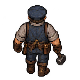
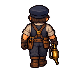
Redraw the playable cast and add a native sprite review workshop

Changed region(s): [[0.15, 0.05, 0.825, 0.975]]

diff --git a/src/dev/sprite-workshop.ts b/src/dev/sprite-workshop.ts
@@ -1,0 +1,81 @@
+import { CHARACTERS } from '../content/characters';
+import { ACTOR_DIRECTIONS, ACTOR_FEET, ACTOR_SIZE, actorAsset, type ActorDirection } from '../content/actors';
+import { COMPANION_IDS, type CompanionId } from '../rules/party';
+import { art } from '../game/ui';
+
+const backgrounds = { Slate: ['#182b32', '#234047'], Paper: ['#dac9a0', '#f4e5be'], Night: ['#080f19', '#101d28'] } as const;
+type Background = keyof typeof backgrounds;
+export class SpriteWorkshop {
+  private hero: CompanionId = 'nell';
+  private direction: ActorDirection = 'front';
+  private background: Background = 'Slate';
+  private zoom = 2;
+  private guides = true;
+  private images = new Map<string, HTMLImageElement>();
+  private host?: HTMLElement;
+
+  show(host: HTMLElement) {
+    this.host = host;
+    this.render();
+  }
+  hide() { this.host = undefined; }
+  private image(name: string) {
+    let image = this.images.get(name);
+    if (!image) {
+      image = new Image(); this.images.set(name, image);
+      image.onload = () => { if (this.host) this.paint(); };
+      image.src = art(name);
+    }
+    return image;
+  }
+  private render() {
+    const host = this.host!;
+    host.innerHTML = `<section class="sprite-review" aria-label="Sprite review"><header><h2>Sprites</h2><p>Five travelers, one art direction. Portraits and lineup are native size.</p></header>
+      <div class="sprite-cast" role="group" aria-label="Playable characters">${COMPANION_IDS.map(hero=>`<button data-sprite-hero="${hero}" aria-label="Inspect ${CHARACTERS[hero].name}" aria-pressed="${hero===this.hero}"><img src="${art(CHARACTERS[hero].portrait)}" alt="${CHARACTERS[hero].name} portrait" width="128" height="128"/><span>${CHARACTERS[hero].name}</span></button>`).join('')}</div>
+      <div class="sprite-settings"><div role="group" aria-label="Facing">${ACTOR_DIRECTIONS.map(direction=>`<button data-facing="${direction}" aria-pressed="${direction===this.direction}">${direction[0].toUpperCase()+direction.slice(1)}</button>`).join('')}</div>
+      <div role="group" aria-label="Preview background">${Object.keys(backgrounds).map(background=>`<button data-background="${background}" aria-pressed="${background===this.background}">${background}</button>`).join('')}</div>
+      <button id="sprite-guides" aria-pressed="${this.guides}">Ground guides</button></div>
+      <section class="sprite-lineup"><h3>Party lineup / 1x</h3><div class="sprite-scroll"><canvas width="480" height="112" aria-label="All five travelers at native size"></canvas></div></section>
+      <div class="sprite-inspector"><section><h3>${CHARACTERS[this.hero].name} / ${this.direction}</h3><div class="sprite-zoom" role="group" aria-label="Sprite zoom">${[1,2,3].map(zoom=>`<button data-zoom="${zoom}" aria-pressed="${zoom===this.zoom}">${zoom}x</button>`).join('')}</div><canvas class="sprite-detail" width="240" height="240" aria-label="${CHARACTERS[this.hero].name} ${this.direction} at ${this.zoom}x"></canvas></section>
+      <section class="sprite-reference"><h3>Four directions / 1x</h3><div class="sprite-scroll"><canvas width="352" height="112" aria-label="${CHARACTERS[this.hero].name} in all four directions"></canvas></div><p>Actor: 80 x 80<br/>Portrait: 128 x 128<br/>Feet: row 68 / center: column 40</p><p class="sprite-file">${actorAsset(this.hero,this.direction)}.png<br/>${CHARACTERS[this.hero].portrait}.png</p></section></div></section>`;
+    const bind = (selector: string, action: (button: HTMLButtonElement) => void) => {
+      for (const button of host.querySelectorAll<HTMLButtonElement>(selector)) button.onclick = () => {
+        const scroll = host.closest('.inventory-panel')!.scrollTop;
+        action(button); this.render(); host.closest('.inventory-panel')!.scrollTop = scroll;
+      };
+    };
+    bind('[data-sprite-hero]', button=>{ this.hero=button.dataset.spriteHero as CompanionId; });
+    bind('[data-facing]', button=>{ this.direction=button.dataset.facing as ActorDirection; });
+    bind('[data-background]', button=>{ this.background=button.dataset.background as Background; });
+    bind('[data-zoom]', button=>{ this.zoom=Number(button.dataset.zoom); });
+    bind('#sprite-guides', ()=>{ this.guides=!this.guides; });
+    this.paint();
+  }
+  private backdrop(ctx: CanvasRenderingContext2D) {
+    const colors = backgrounds[this.background];
+    for (let y=0;y<ctx.canvas.height;y+=8) for (let x=0;x<ctx.canvas.width;x+=8) {
+      ctx.fillStyle=colors[(x/8+y/8)%2]; ctx.fillRect(x,y,8,8);
+    }
+    ctx.imageSmoothingEnabled=false;
+  }
+  private actor(ctx: CanvasRenderingContext2D, hero: CompanionId, direction: ActorDirection, x: number, y: number, zoom=1) {
+    const image=this.image(actorAsset(hero,direction)), size=ACTOR_SIZE*zoom;
+    if (this.guides) {
+      ctx.strokeStyle='#87a3a2';ctx.lineWidth=1;ctx.strokeRect(x+.5,y+.5,size-1,size-1);
+      ctx.fillStyle='#f4c77a';ctx.fillRect(x,y+ACTOR_FEET*zoom,size,1);
+      ctx.fillStyle='#557179';ctx.fillRect(x+40*zoom,y,1,size);
+    }
+    if(image.complete&&image.naturalWidth)ctx.drawImage(image,x,y,size,size);
+  }
+  private paint() {
+    if(!this.host)return;
+    const [lineup, detail, directions]=this.host.querySelectorAll('canvas');
+    const a=lineup.getContext('2d')!,b=detail.getContext('2d')!,c=directions.getContext('2d')!;
+    for(const ctx of [a,b,c])this.backdrop(ctx);
+    COMPANION_IDS.forEach((hero,index)=>this.actor(a,hero,this.direction,8+96*index,16));
+    const offset=(240-ACTOR_SIZE*this.zoom)/2;this.actor(b,this.hero,this.direction,offset,offset,this.zoom);
+    ACTOR_DIRECTIONS.forEach((direction,index)=>this.actor(c,this.hero,direction,8+88*index,16));
+    // A DOM mutation asks the shared native framebuffer to repaint these canvases.
+    this.host.dataset.paint=String(Number(this.host.dataset.paint??0)+1);
+  }
+}

diff --git a/src/game/adventure.ts b/src/game/adventure.ts
@@ -1,4 +1,5 @@
 import Phaser from 'phaser';
+import { facingAsset, PLAYABLE_ACTORS } from '../content/actors';
 import { CHAPTER_TWO_AVAILABLE,CHAPTER_THREE_AVAILABLE,CHAPTER_FOUR_AVAILABLE } from '../content/chapters';
 import { CHARACTERS, NPC_SPRITES } from '../content/characters';
 import type { StoryHost } from '../content/chapter-one/interactions';
@@ -7,7 +8,7 @@ import type { Dialogue } from '../content/dialogue';
 import { HEIGHT, MAPS, TILE, WIDTH, mapSize, visibleObjects, walkable, worldPath, type MapObject } from '../content/maps';
 import { ABILITIES, ENCOUNTERS, active, awardVictory, cast, createBattle, damage, defend, enemyTurn, legalAim, move, movement, pushDestination, shape, targets, tauntTarget, wait, type AbilityId, type Battle } from '../rules/combat';
 import { HEX_SIZE, cells, equal, fromPixel, inside, key, neighbors, offset, toPixel, type Hex } from '../rules/hex';
-import { beginChapterTwo, beginChapterThree, beginChapterFour, partyLeader, decodeSave, level, maxHp, newGame, remember, restoreParty, type GameState, type MapId } from '../rules/state';
+import { beginChapterTwo, beginChapterThree, beginChapterFour, partyLeader, decodeSave, level, maxHp, newGame, remember, restoreParty, type GameState, type HeroId, type MapId } from '../rules/state';
 import { Audio } from './audio';
 import { Cutscene } from './cutscene';
 import { checkpoint, exportSave, listSaves, save } from './saves';
@@ -20,7 +21,7 @@ import { worldView, narrowScreen } from './resolution';
 
 type Action = AbilityId | 'move';
 type Plan = { action: Action; hex: Hex };
-const textures = ['nell','nell-left','nell-right','nell-back','orrin','orrin-left','orrin-right','orrin-back','master','clerk','hound','crow','inspector','guardian','rock',...NPC_SPRITES];
+const textures = [...PLAYABLE_ACTORS,'master','clerk','hound','crow','inspector','guardian','rock',...NPC_SPRITES];
 const roles: Record<string, string> = { nell: 'Porter', orrin: 'Mechanic', kit: 'Courier', petra:'Knight', celia: 'Physician', hound: 'Melee · retaliates', crow: 'Ranged · cover blocks shots', guardian: 'Steam lance · line AoE', inspector: 'Signal flare · blast AoE' };
 
 export class Adventure extends Phaser.Scene {
@@ -60,7 +61,7 @@ export class Adventure extends Phaser.Scene {
   constructor(private readonly practiceReady?: (scene: Adventure, ui: UI) => void, private readonly practiceActors: readonly string[] = []) { super('adventure'); }
   attach(ui: UI) { this.ui = ui; }
   preload() {
-    for (const name of [...textures,...(import.meta.env.DEV ? this.practiceActors : [])]) this.load.image(name, art(name));
+    for (const name of new Set([...textures,...(import.meta.env.DEV ? this.practiceActors : [])])) this.load.image(name, art(name));
     for (const name of ['station','yard','tunnel']) this.load.image(`map-${name}`, `${import.meta.env.BASE_URL}art/${name}.webp`);
     this.load.on('loaderror', () => this.ui.toast('An art asset could not load. Try refreshing the page.'));
   }
@@ -307,13 +308,13 @@ export class Adventure extends Phaser.Scene {
     this.moving = true;
     const previous = { x: this.player!.x, y: this.player!.y };
     const leader=partyLeader(this.state);
-    this.face = leader==='nell'||leader==='orrin'?(dx<0?`${leader}-left`:dx>0?`${leader}-right`:dy<0?`${leader}-back`:leader):leader;
+    this.face = facingAsset(leader,dx,dy);
     this.player!.setTexture(this.face); p.x=x; p.y=y;this.audio.effect('move',p.map);
     this.tweens.add({ targets:this.player, x:(x+.5)*TILE, y:(y+.5)*TILE+7, duration:130, ease:'Linear', onComplete:()=>{ this.moving=false; } });
     let following = previous;
     for (const follower of this.followers) {
-      const old = { x: follower.x, y: follower.y }, id = follower.getData('hero');
-      if (id === 'orrin') follower.setTexture(dx < 0 ? 'orrin-left' : dx > 0 ? 'orrin-right' : dy < 0 ? 'orrin-back' : 'orrin');
+      const old = { x: follower.x, y: follower.y }, id = follower.getData('hero') as HeroId;
+      follower.setTexture(facingAsset(id,following.x-old.x,following.y-old.y));
       this.tweens.add({ targets:follower, x:following.x, y:following.y, duration:130, ease:'Linear' });
       following = old;
     }

diff --git a/src/dev/workshop.css b/src/dev/workshop.css
@@ -10,3 +10,6 @@
 
 #music-workshop{flex:1;min-height:0}.music-layout{display:grid;grid-template-columns:232px minmax(0,1fr);gap:16px;align-items:start}.music-library,.music-review,.music-tuning{min-width:0}.music-library h2,.music-review h2,.music-tuning h2{margin-bottom:12px}.music-groups,.music-transport,.music-bar,.music-parts,.music-volume,.music-comparisons{display:flex;flex-wrap:wrap;align-items:center;gap:8px;margin:12px 0}.music-groups button,.music-parts button,.music-layout button{font-size:10px;line-height:12px;min-height:28px}.music-layout button[aria-pressed="true"]{border-color:#f4c77a;background:#234047}.music-cues{display:grid;gap:8px}.music-cues button{text-align:left;white-space:normal;padding:10px}.music-cues span,.music-cues small{display:block}.music-cues small{margin-top:8px;color:#87a3a2}.music-description,.music-tuning p,#music-position,.music-volume,.music-bar{font-size:10px;line-height:16px}.music-description{color:#87a3a2}.music-bar input{width:64px;height:28px;font:inherit;color:#f4e5be;background:#080f19;border:1px solid #8b805e;padding:7px 8px}.music-review h3{font-size:10px;line-height:12px;margin:16px 0 8px}#music-notes{max-height:260px;overflow-y:auto;margin-top:8px}#music-notes table{border-collapse:collapse;width:100%;font-size:10px;line-height:12px}#music-notes th,#music-notes td{text-align:left;border-bottom:1px solid #35535a;padding:4px 8px}#music-notes td button{padding:4px;min-height:24px}.music-tuning{grid-column:1/-1;border-top:1px solid #625842;padding-top:16px}.music-circle{display:grid;grid-template-columns:repeat(16,minmax(0,1fr));gap:4px;margin:12px 0}.music-circle button{padding:6px 0}.music-circle small{display:block;color:#87a3a2;margin-top:4px}
 @media(max-width:1023px){.workshop-tabs button{min-width:0;flex:1}.music-layout{display:flex;flex-direction:column;gap:16px}.music-library,.music-review,.music-tuning{width:100%}.music-cues{grid-template-columns:repeat(2,minmax(0,1fr));max-height:184px;overflow-y:auto}.music-cues button{min-height:64px}.music-layout h2{font-size:10px;line-height:12px}.music-layout button{min-height:32px}.music-circle{grid-template-columns:repeat(7,minmax(0,1fr))}.music-review #music-notes{max-height:224px}#music-notes th,#music-notes td{padding:4px}.music-bar input{height:32px}.music-groups{gap:4px}.music-groups button{padding:8px}}
+
+#sprite-workshop{min-width:0}.sprite-review header p,.sprite-reference p{font-size:10px;line-height:16px;margin:8px 0;color:#87a3a2}.sprite-cast{display:grid;grid-template-columns:repeat(5,minmax(0,1fr));gap:8px;margin:16px 0}.sprite-cast button{min-width:0;padding:8px;display:flex;flex-direction:column;align-items:center;gap:8px}.sprite-cast img{display:block;width:128px;height:128px;background:#182b32}.sprite-cast span{font-size:10px;line-height:12px}.sprite-review button[aria-pressed="true"]{border-color:#f4c77a;background:#234047}.sprite-settings,.sprite-settings>div,.sprite-zoom{display:flex;flex-wrap:wrap;gap:8px;align-items:center}.sprite-settings{margin-bottom:16px}.sprite-review button{font-size:10px;line-height:12px;min-height:28px}.sprite-settings>div{padding-right:8px}.sprite-review h3{font-size:10px;line-height:12px;margin-bottom:8px}.sprite-scroll{overflow-x:auto;max-width:100%;margin-bottom:12px}.sprite-scroll canvas{display:block;max-width:none}.sprite-inspector{display:grid;grid-template-columns:256px minmax(0,1fr);gap:24px;margin-top:16px}.sprite-inspector>section{min-width:0}.sprite-detail{display:block;width:240px;height:240px;margin-top:8px}.sprite-file{overflow-wrap:anywhere}.sprite-reference{padding-top:0}.sprite-lineup canvas{width:480px;height:112px}.sprite-reference canvas{width:352px;height:112px}
+@media(max-width:1023px){.sprite-cast{grid-template-columns:repeat(2,minmax(0,1fr))}.sprite-cast button{padding:4px}.sprite-settings{gap:12px}.sprite-settings>div{padding:0;gap:4px}.sprite-review button{min-height:32px}.sprite-inspector{display:flex;flex-direction:column;gap:16px}.sprite-review h2{font-size:10px;line-height:12px}}

diff --git a/src/dev/workshop.ts b/src/dev/workshop.ts
@@ -1,4 +1,5 @@
 import { MusicWorkshop } from './music-workshop';
+import { SpriteWorkshop } from './sprite-workshop';
 import { Adventure } from '../game/adventure';
 import { mountGame } from '../game/mount';
 import { art, type UI } from '../game/ui';
@@ -25,7 +26,8 @@ class Workshop {
   private inventory = stock();
   private settings = newCharacterSettings();
   private music: MusicWorkshop;
-  private tab: 'character' | 'equipment' | 'music' = new URLSearchParams(location.search).get('dev') === 'inventory' ? 'equipment' : new URLSearchParams(location.search).get('dev') === 'music' ? 'music' : 'character';
+  private sprites = new SpriteWorkshop();
+  private tab: 'character' | 'equipment' | 'music' | 'sprites' = new URLSearchParams(location.search).get('dev') === 'inventory' ? 'equipment' : new URLSearchParams(location.search).get('dev') === 'music' ? 'music' : new URLSearchParams(location.search).get('dev') === 'sprites' ? 'sprites' : 'character';
   private hero: CompanionId = 'nell';
   private selected: ItemId = 'brass-reflector';
   private message = 'Choose a character to adjust their build.';
@@ -91,6 +93,8 @@ class Workshop {
     this.ui.sceneLayer.querySelector<HTMLButtonElement>('#level-defaults')!.onclick=()=>{this.settings.characters[hero]=defaultBuild(hero,this.settings.characters[hero].level);this.save(`${names[hero]} restored to level defaults.`);};
   }
   show() {
+    this.sprites.hide();
+    if(this.tab==='sprites'){this.showSprites();return;}
     if(this.tab==='music'){this.showMusic();return;}
     this.music.hide();
     const scroll = this.ui.sceneLayer.querySelector('.inventory-panel')?.scrollTop ?? 0;
@@ -141,7 +145,7 @@ class Workshop {
     this.ui.sceneLayer.querySelector('.inventory-panel')!.scrollTop = scroll;
   }
   private tabs(){
-    return `<nav class="workshop-tabs" aria-label="Workshop panels">${(['character','equipment','music'] as const).map(tab=>`<button data-tab="${tab}" class="${this.tab===tab?'selected':''}" aria-pressed="${this.tab===tab}">${tab[0].toUpperCase()+tab.slice(1)}</button>`).join('')}</nav>`;
+    return `<nav class="workshop-tabs" aria-label="Workshop panels">${(['character','equipment','music','sprites'] as const).map(tab=>`<button data-tab="${tab}" class="${this.tab===tab?'selected':''}" aria-pressed="${this.tab===tab}">${tab[0].toUpperCase()+tab.slice(1)}</button>`).join('')}</nav>`;
   }
   private bindTabs(){for(const button of this.ui.sceneLayer.querySelectorAll<HTMLButtonElement>('[data-tab]'))button.onclick=()=>{this.tab=button.dataset.tab as typeof this.tab;this.show();};}
   private showMusic(){
@@ -152,8 +156,17 @@ class Workshop {
     this.bindTabs();this.music.show(this.ui.sceneLayer.querySelector('#music-workshop')!);
     this.ui.status.textContent='Vite development / Music review does not change campaign saves';
   }
+  private showSprites(){
+    this.music.hide();this.scene.closePreview();document.querySelector('.game-shell')!.classList.add('inventory-open');
+    (document.getElementById('save-button') as HTMLButtonElement).disabled=false;
+    this.ui.initiative.textContent='Sprite review / Native artwork and ground anchors';
+    this.ui.sceneLayer.innerHTML=`<section class="inventory-panel" aria-label="Character workshop">${this.tabs()}<div id="sprite-workshop"></div></section>`;
+    this.bindTabs();this.sprites.show(this.ui.sceneLayer.querySelector('#sprite-workshop')!);
+    this.ui.status.textContent='Vite development / Sprite review does not change saves or builds';
+  }
   toggleSound(){if(this.music.active)this.music.toggle();else void this.scene.toggleSound();}
   battle() {
+    this.sprites.hide();
     this.music.hide();
     document.querySelector('.game-shell')!.classList.remove('inventory-open');
     (document.getElementById('save-button') as HTMLButtonElement).disabled = true;

diff --git a/src/content/actors.ts b/src/content/actors.ts
@@ -1,0 +1,9 @@
+import { COMPANION_IDS, type CompanionId } from '../rules/party';
+
+export const ACTOR_DIRECTIONS = ['front', 'left', 'right', 'back'] as const;
+export type ActorDirection = typeof ACTOR_DIRECTIONS[number];
+export const ACTOR_SIZE = 80;
+export const ACTOR_FEET = 68;
+export const actorAsset = (hero: CompanionId, direction: ActorDirection = 'front') => direction === 'front' ? hero : `${hero}-${direction}`;
+export const facingAsset = (hero: CompanionId, dx: number, dy: number) => actorAsset(hero, dx < 0 ? 'left' : dx > 0 ? 'right' : dy < 0 ? 'back' : 'front');
+export const PLAYABLE_ACTORS = COMPANION_IDS.flatMap(hero => ACTOR_DIRECTIONS.map(direction => actorAsset(hero, direction)));

diff --git a/src/main.ts b/src/main.ts
@@ -3,7 +3,7 @@ import { Adventure } from './game/adventure';
 import { mountGame } from './game/mount';
 
 const root=document.getElementById('app')!;
-if(import.meta.env.DEV && ['workshop','inventory','music'].includes(new URLSearchParams(location.search).get('dev') ?? '')){
+if(import.meta.env.DEV && ['workshop','inventory','music','sprites'].includes(new URLSearchParams(location.search).get('dev') ?? '')){
   void import('./dev/workshop').then(({startWorkshop})=>startWorkshop(root));
 }else{
   mountGame(root,new Adventure());
